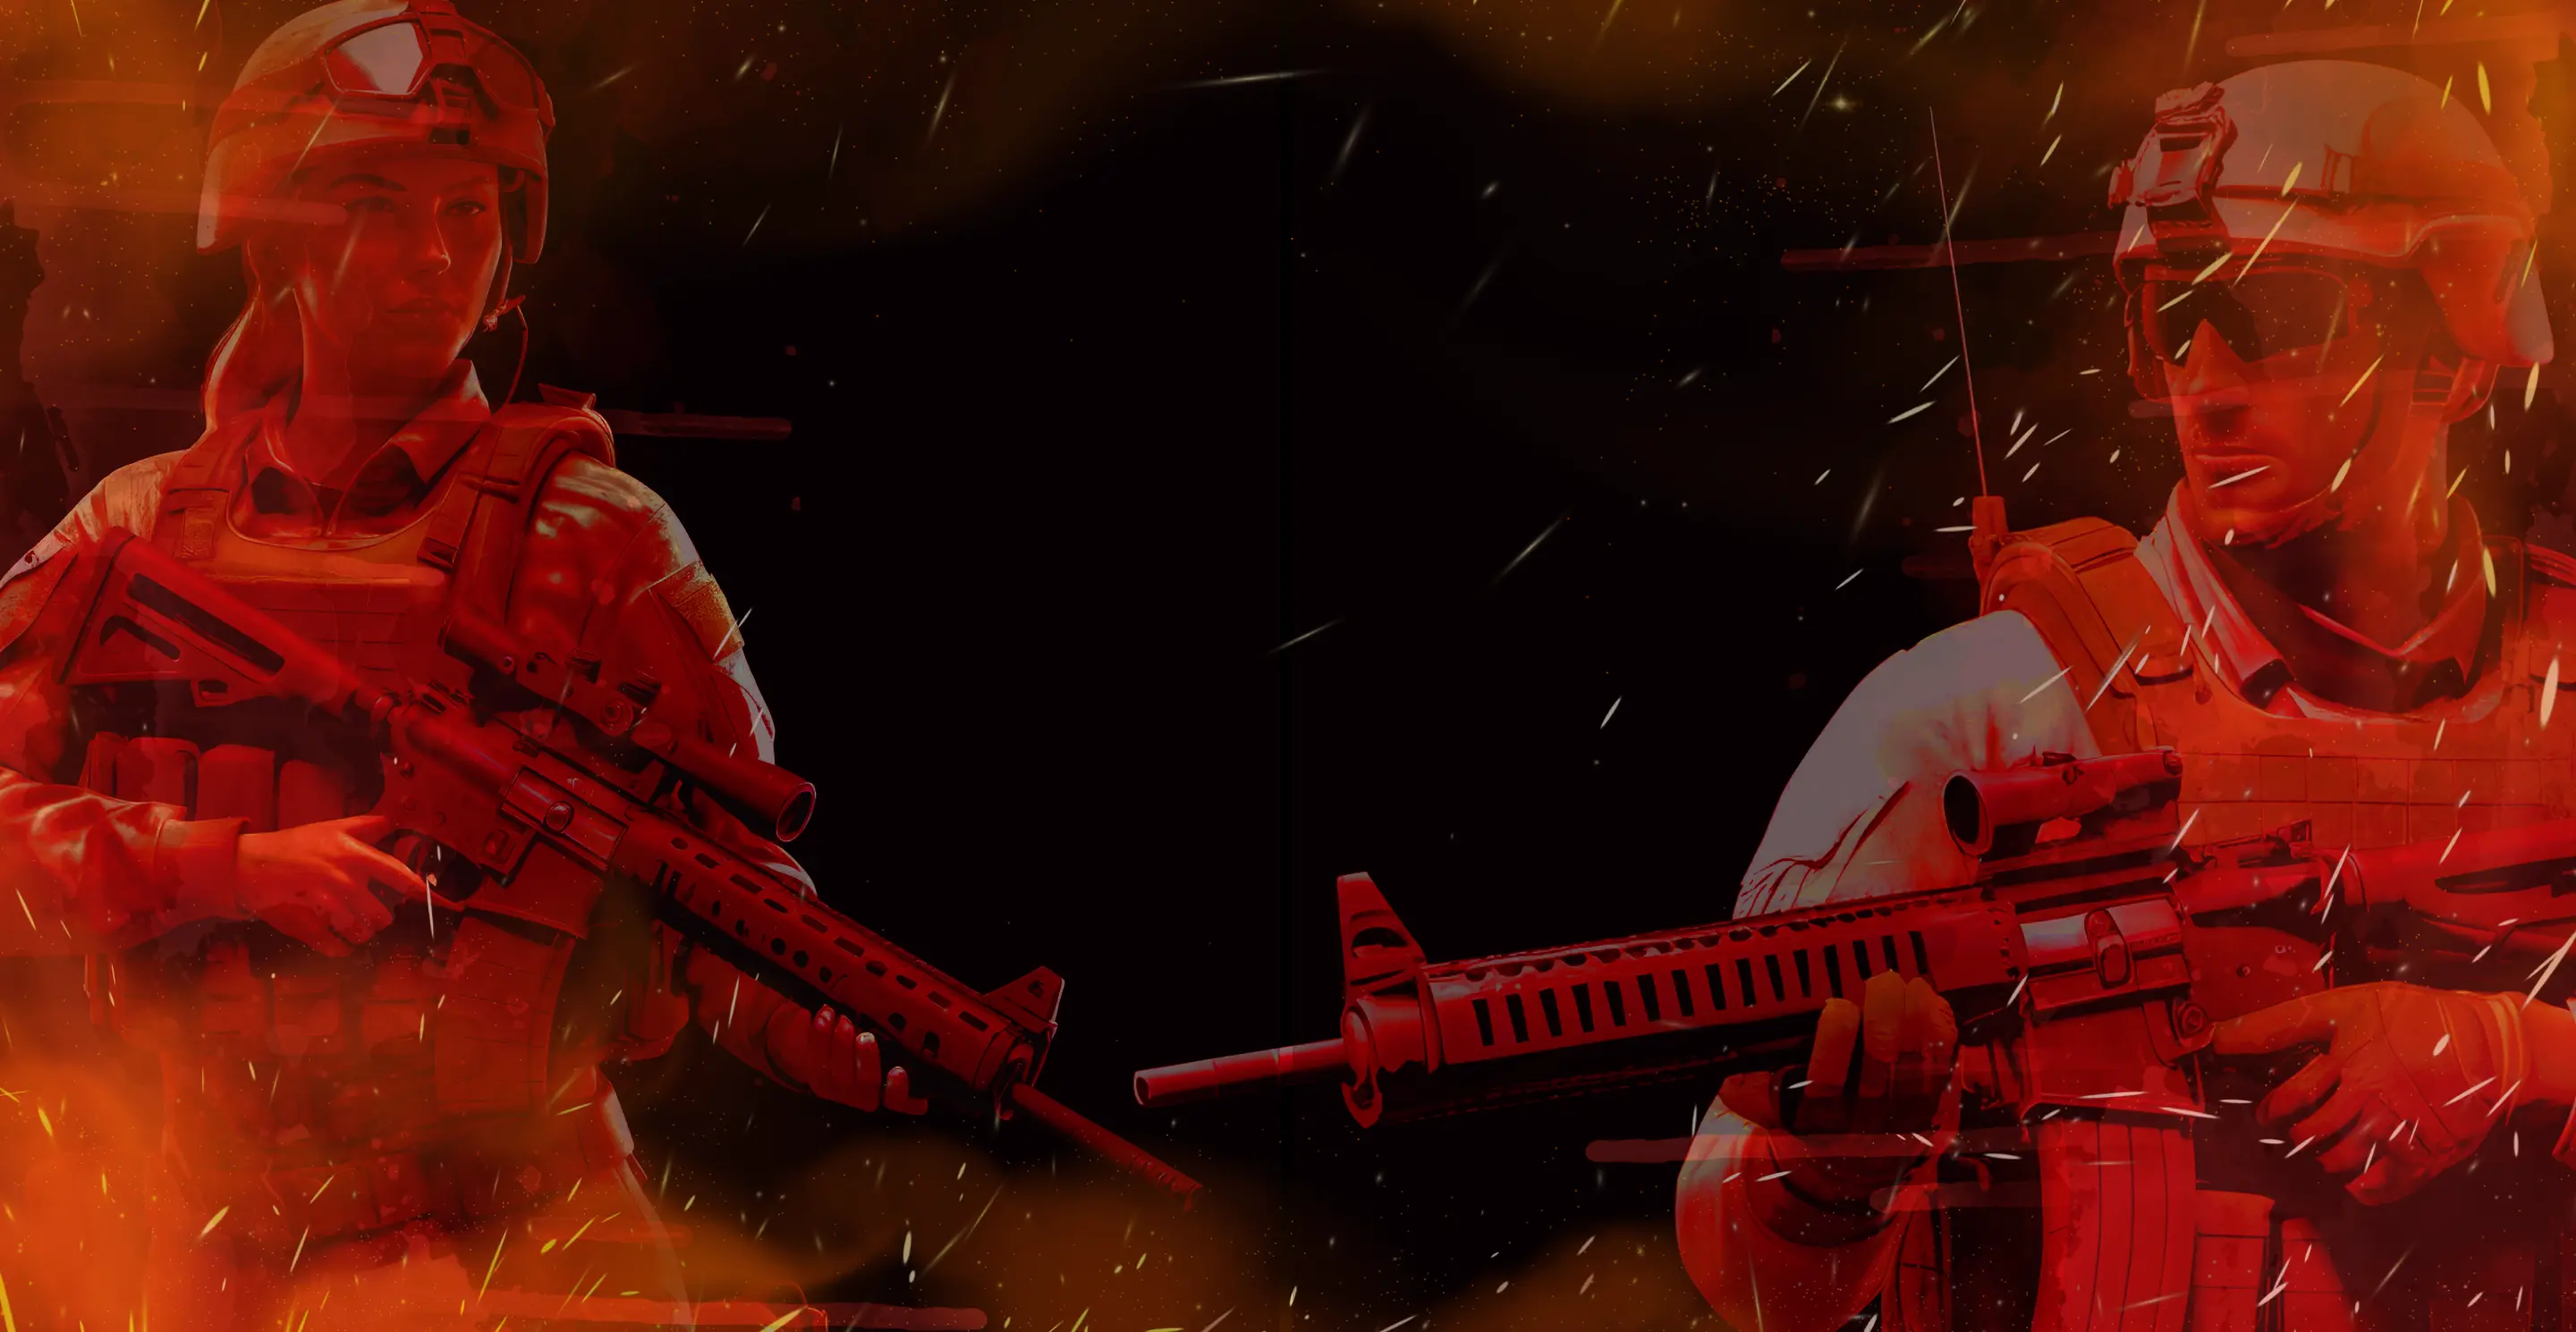
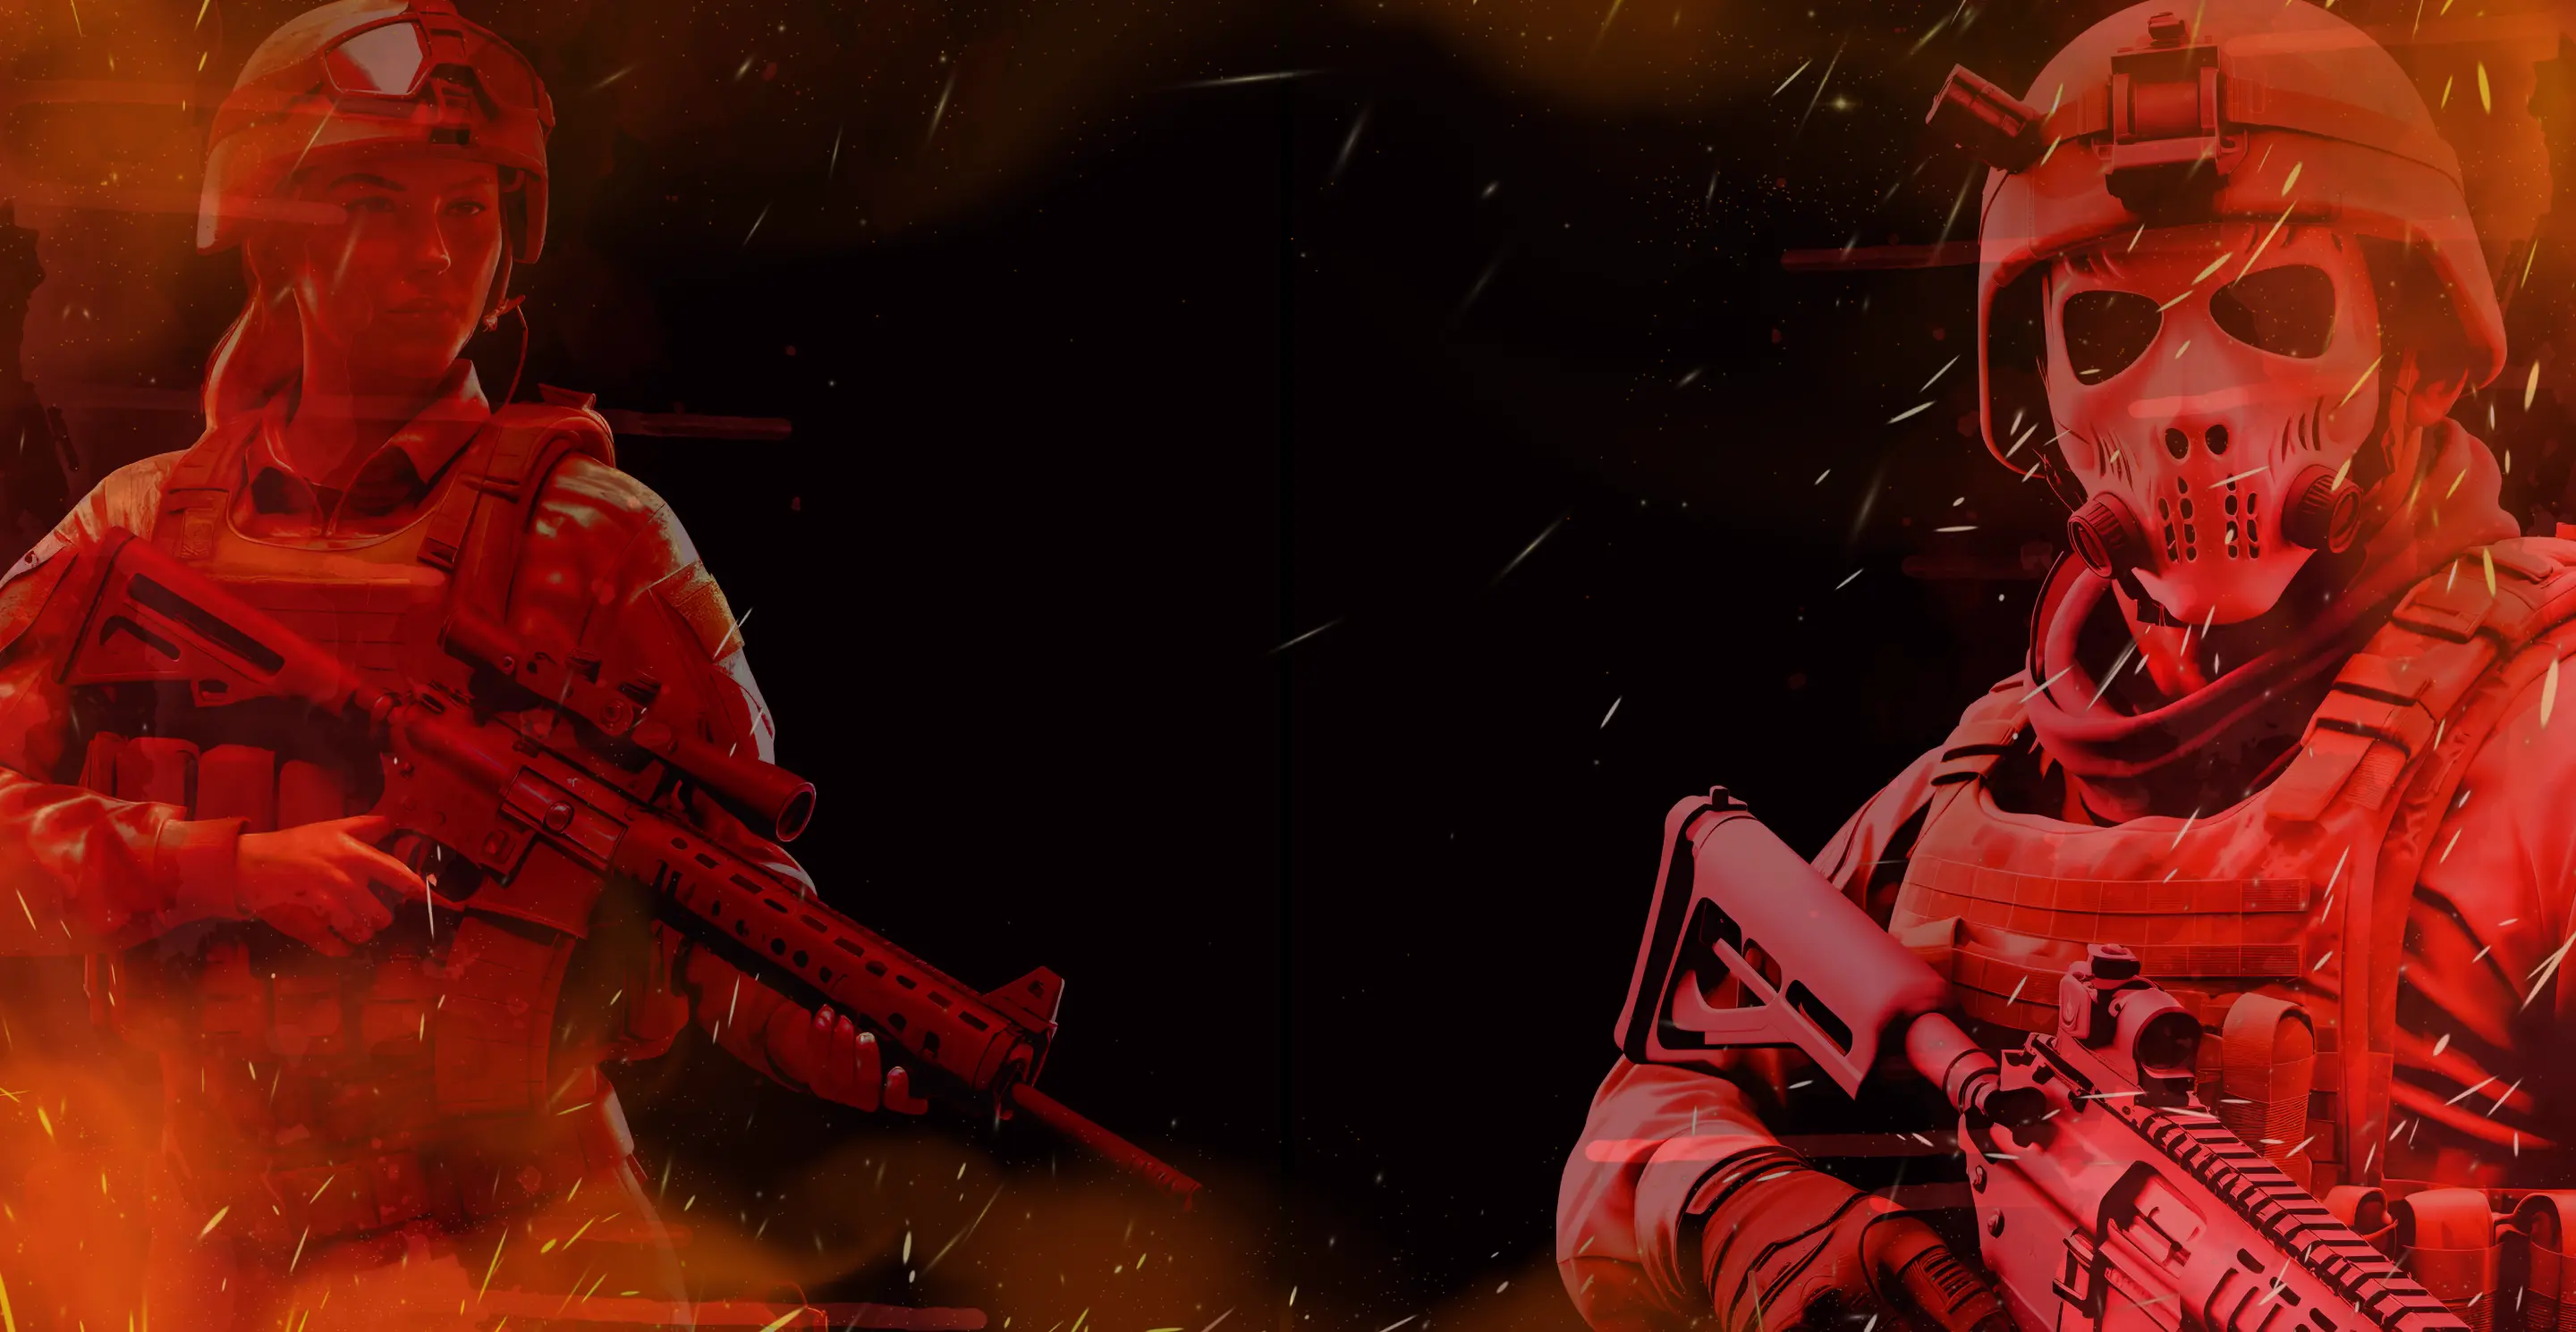
Update the hero, trailer, command section background images

Changed region(s): [[0.4375, 0.0, 1.0, 1.0]]

diff --git a/components/header.tsx b/components/header.tsx
@@ -19,7 +19,7 @@ import { AlignJustify, TelescopeIcon } from "lucide-react";
 
 export default function Header() {
   return (
-    <header className="absolute mt-8 lg:mt-0 top-0 inset-x-0 py-4 z-20">
+    <header className="absolute lg:mt-0 top-0 inset-x-0 z-20">
       <nav className="container flex items-center justify-between">
         <Link href="/">
           <Image
@@ -28,7 +28,7 @@ export default function Header() {
             priority
             // width={126.417}
             // height={58}
-            className="w-[60px] lg:w-full h-[24] lg:h-auto"
+            className="h-[100px] w-[100px] lg:h-[78px] lg:w-[78px]"
           />
         </Link>
         <ul className="max-lg:hidden flex gap-16 ">

diff --git a/components/containers/hero.tsx b/components/containers/hero.tsx
@@ -1,5 +1,5 @@
 import Image from "next/image";
-import HeroBgImg from "@/public/imgs/hero-bg-img1.webp";
+import HeroBgImg from "@/public/imgs/hero-bg-img.webp";
 import MobileHeroBgImg from "@/public/imgs/mobile-hero-bg-img.webp";
 import TextShadowImg from "@/public/imgs/hero-text-shadow-img.png";
 import ButtonShadowImg from "@/public/imgs/hero-button-shadow-img.png";
